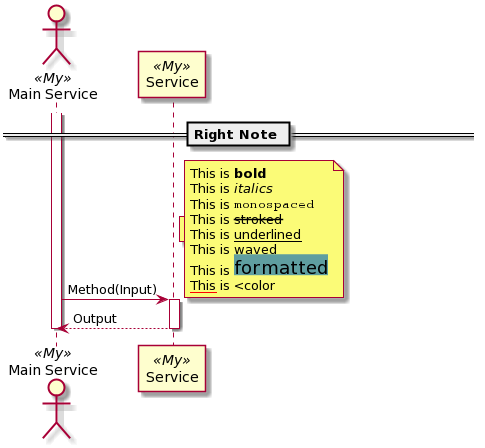
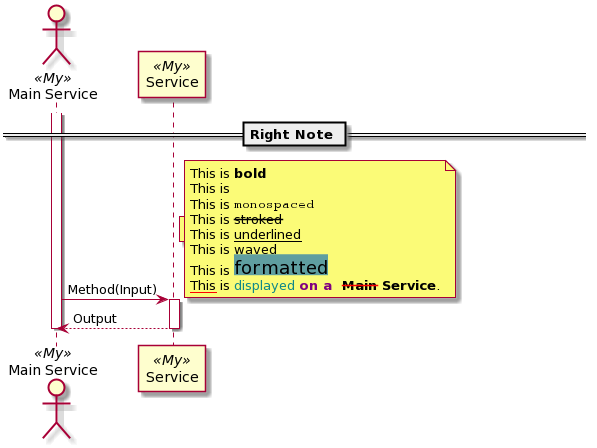
Change comment from # back to //

Changed region(s): [[0.0, 0.0, 0.7732, 1.0]]

diff --git a/docs/tuc/parts.md b/docs/tuc/parts.md
@@ -33,7 +33,7 @@ There **must** be at lease one part of the use-case in the Tuc definition.
 ### Syntax
 ```tuc
 {InitiatorService}
-    # indented execution of the lifeline
+    // indented execution of the lifeline
 ```
 
 ### Example
@@ -122,7 +122,7 @@ deactivate MainService
 ### Syntax
 ```tuc
 {ServiceName}.{MethodName}
-    # indented execution of the method
+    // indented execution of the method
 ```
 
 Service Type is found in the Domain Types, it must contain a MethodName as a field with a function (_method_). The type of the Method is used in the puml.
@@ -149,9 +149,9 @@ participants
     MainService My as "Main Service"
     Service My
 
-MainService                             # MainService is the caller
-    Service.Method                      # Method `Method` is called on the `Service`
-        "this is part of execution"     # This is part of the Method execution
+MainService                             // MainService is the caller
+    Service.Method                      // Method `Method` is called on the `Service`
+        "this is part of execution"     // This is part of the Method execution
 ```
 
 Results:
@@ -219,10 +219,10 @@ participants
     MainService My as "Main Service"
     [InteractionStream] My
 
-MainService                                     # MainService is the caller
-    InteractionEvent -> [InteractionStream]     # InteractionEvent is posted to the stream
+MainService                                     // MainService is the caller
+    InteractionEvent -> [InteractionStream]     // InteractionEvent is posted to the stream
 
-    # Event concrete events can be posted to the stream
+    // Event concrete events can be posted to the stream
     InteractionEvent.Confirmed -> [InteractionStream]
 
     InteractionEvent.Rejected -> [InteractionStream]
@@ -297,10 +297,10 @@ participants
     MainService My as "Main Service"
     [InteractionStream] My
 
-MainService                                     # MainService is the caller
-    [InteractionStream] -> InteractionEvent     # InteractionEvent is read from the stream
+MainService                                     // MainService is the caller
+    [InteractionStream] -> InteractionEvent     // InteractionEvent is read from the stream
 
-    # Even concrete events can be read from the stream
+    // Even concrete events can be read from the stream
     [InteractionStream] -> InteractionEvent.Confirmed
 
     [InteractionStream] -> InteractionEvent.Rejected
@@ -343,7 +343,7 @@ deactivate MainService
 ```tuc
 [{TypeName}Stream]
     {ServiceName}.{HandlerName}
-        # indented execution of the method
+        // indented execution of the method
 ```
 
 Service Type is found in the Domain Types, it must contain a HandlerName as a field with a function (_[handler](/tuc-console/domain/#handler)_). The type of the Handler is used for checking a Stream Type.
@@ -382,9 +382,9 @@ participants
     StreamListener My
     [InteractionStream] My
 
-[InteractionStream]                     # Stream of the Event type of the handler
-    StreamListener.OnInteractionEvent   # Handler `OnInteractionEvent` is called on the `StreamListener`
-        "this is part of execution"     # This is part of the Handler execution
+[InteractionStream]                     // Stream of the Event type of the handler
+    StreamListener.OnInteractionEvent   // Handler `OnInteractionEvent` is called on the `StreamListener`
+        "this is part of execution"     // This is part of the Handler execution
 ```
 
 Results:
@@ -418,7 +418,7 @@ InteractionStream ->> StreamListener: OnInteractionEvent(InteractionEvent)
 ### Syntax
 ```tuc
 group {Group name}
-    # indented body of the group
+    // indented body of the group
 ```
 
 ### Example
@@ -472,15 +472,15 @@ deactivate MainService
 ### Syntax
 ```tuc
 if {Condition}
-    # indented body of the if
+    // indented body of the if
 ```
 
 With `else`
 ```tuc
 if {Condition}
-    # indented body of the if
+    // indented body of the if
 else
-    # indented body of the else
+    // indented body of the else
 ```
 
 **NOTE**: There is no `else if` syntax, if you need to use it, you need to have other `if/if-else` in the `else` branch.
@@ -488,10 +488,10 @@ else
 With another `if` in `else`
 ```tuc
 if {Condition}
-    # indented body of the if
+    // indented body of the if
 else
     if {Condition}
-        # indented body of the else-if
+        // indented body of the else-if
 ```
 
 ### Example
@@ -562,7 +562,7 @@ deactivate MainService
 ### Syntax
 ```tuc
 loop {Condition}
-    # indented body of the loop
+    // indented body of the loop
 ```
 
 ### Example

diff --git a/docs/tuc/participants.md b/docs/tuc/participants.md
@@ -34,8 +34,8 @@ participants
 
 ### Syntax
 ```tuc
-participants                                    # keyword starting a participant section
-    {TypeName} {DomainName} ( as "{Alias}" )    # active participant
+participants                                    // keyword starting a participant section
+    {TypeName} {DomainName} ( as "{Alias}" )    // active participant
 ```
 
 ### Type Name
@@ -98,9 +98,9 @@ Component **can not** be used anywhere in the use-case - its only purpose is _gr
 
 ### Syntax
 ```tuc
-participants                                            # keyword starting a participant section
-    {ComponentTypeName} {DomainName}                    # component participant
-        {TypeName} ( {DomainName} ) ( as "{Alias}" )    # active participant, from component
+participants                                            // keyword starting a participant section
+    {ComponentTypeName} {DomainName}                    // component participant
+        {TypeName} ( {DomainName} ) ( as "{Alias}" )    // active participant, from component
 ```
 
 * It **must** be defined in the Domain types as a `Record`, containing its services as fields.
@@ -128,10 +128,10 @@ type ServiceComponent = {
 
 ```tuc
 participants
-    MainService Example as "Main Service"   # this is Active Participant
-    ServiceComponent Example                # this is a Component
-        ServiceA Example                    # this is Active Participant of the Component
-        ServiceB as "Service B"             # this is Active Participant of the Component
+    MainService Example as "Main Service"   // this is Active Participant
+    ServiceComponent Example                // this is a Component
+        ServiceA Example                    // this is Active Participant of the Component
+        ServiceB as "Service B"             // this is Active Participant of the Component
 ```
 
 In puml:
@@ -150,8 +150,8 @@ end box
 
 ### Syntax
 ```tuc
-participants                                    # keyword starting a participant section
-    [{TypeName}] {DomainName} ( as "{Alias}" )  # active participant
+participants                                    // keyword starting a participant section
+    [{TypeName}] {DomainName} ( as "{Alias}" )  // active participant
 ```
 
 * It has the same syntax as an Active Participant (_also in the Component_), but its Type name **must** be in `[ ]`.
@@ -192,8 +192,8 @@ database "InteractionCache" as InteractionCache <<My>>
 * It has the same syntax as the Data Object, but it **must** have `Stream` suffix.
 
 ```tuc
-participants                                            # keyword starting a participant section
-    [{TypeName}Stream] {DomainName} ( as "{Alias}" )    # active participant
+participants                                            // keyword starting a participant section
+    [{TypeName}Stream] {DomainName} ( as "{Alias}" )    // active participant
 ```
 
 **NOTE**: It has a [special definition in the domain types](/tuc-console/domain/#stream).

diff --git a/docs/tuc/index.md b/docs/tuc/index.md
@@ -29,23 +29,23 @@ Nested structure is indented by spaces.
 
 ```tuc
 MainInitiator
-    # here is the body (lifeline) of the initiator, currently indented by 4 spaces
+    // here is the body (lifeline) of the initiator, currently indented by 4 spaces
 ```
 
 ### Comments
-You can comment your tuc file with the simple syntax of `#`.
-Everything behind `#` is ignored and the parser won't do anything with it (_at the moment_).
+You can comment your tuc file with the simple syntax of `//`.
+Everything behind `//` is ignored and the parser won't do anything with it (_at the moment_).
 
 ```tuc
-# this is comment
+// this is comment
 ```
 
 There are no special multi-line comments.
 ```tuc
-# this
-# is
-# multi-line
-# comment
+// this
+// is
+// multi-line
+// comment
 ```
 
 ## Structure
@@ -56,12 +56,12 @@ Single tuc definition **must** consist of 3 parts:
 
 Single tuc definition
 ```tuc
-tuc Example     # tuc name
+tuc Example     // tuc name
 
-participants    # participants
+participants    // participants
     MyService MyDomain
 
-MyService       # use-case parts
+MyService       // use-case parts
     do something
 ```
 

diff --git a/CHANGELOG.md b/CHANGELOG.md
@@ -9,6 +9,7 @@
     - `Stream`
 - Parse/Check `Domain` of participants in tuc
     - Component must have domain and it's participants must be in the same domain
+- Change tuc comment back to `//` from `#`, so it won't conflict with `#colorHash` in notes, etc.
 
 ## 0.2.0 - 2020-09-01
 - Parse left and right notes in tuc
